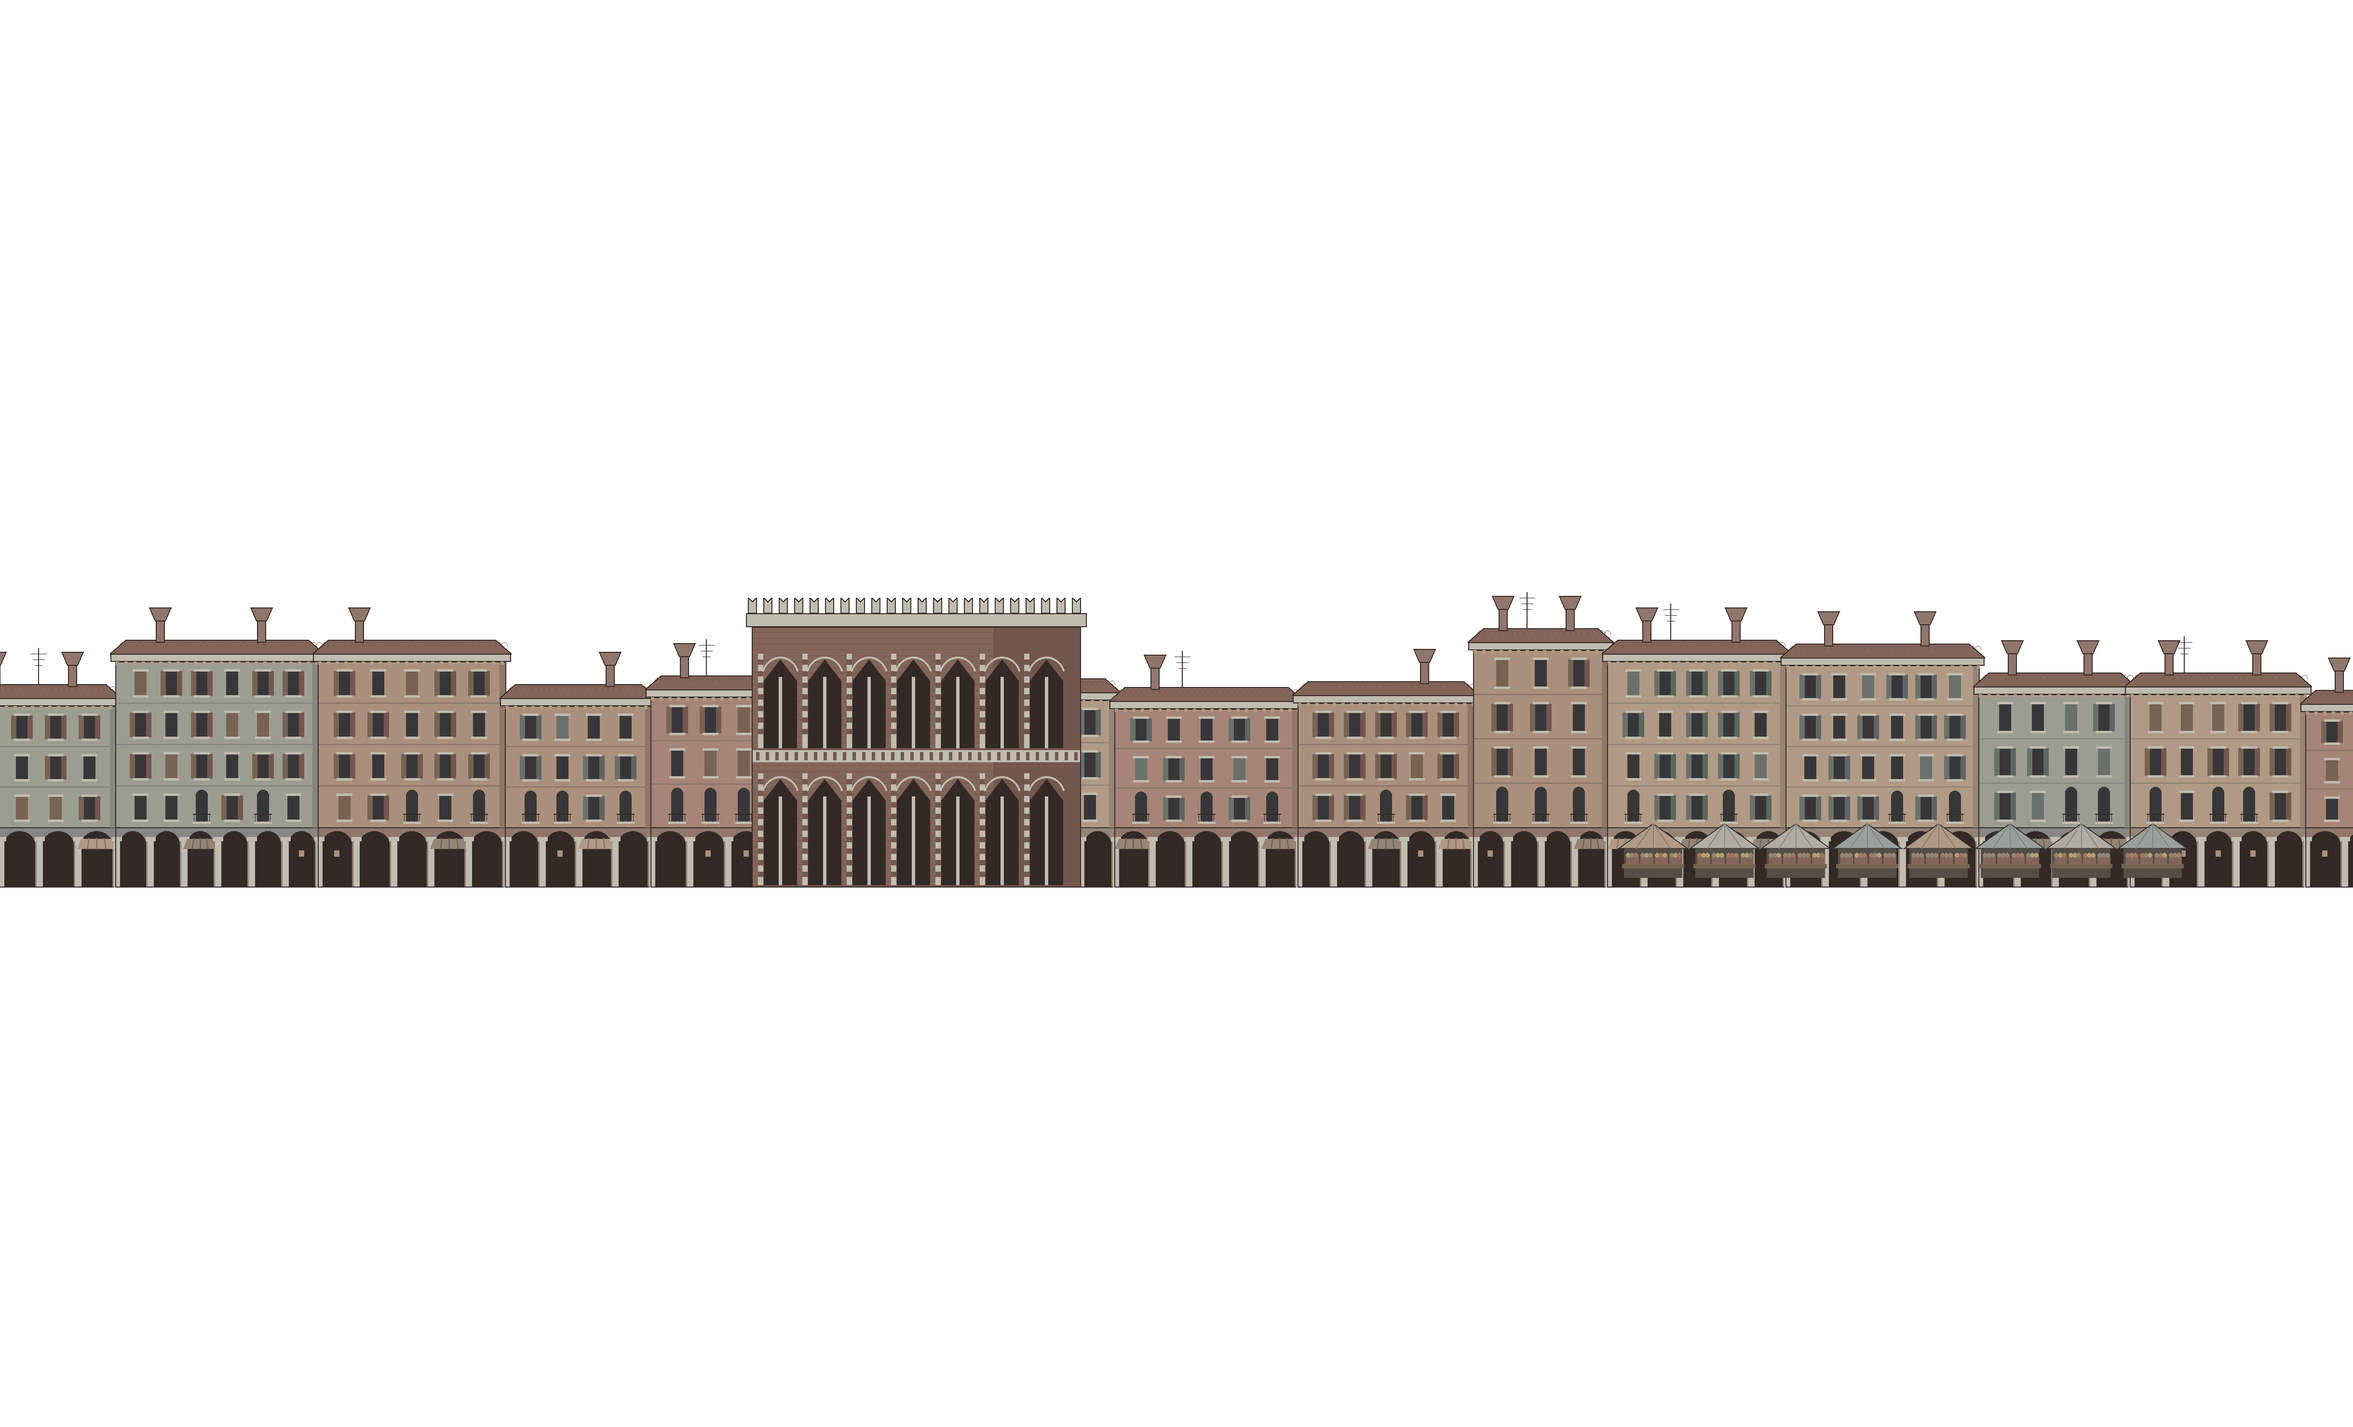
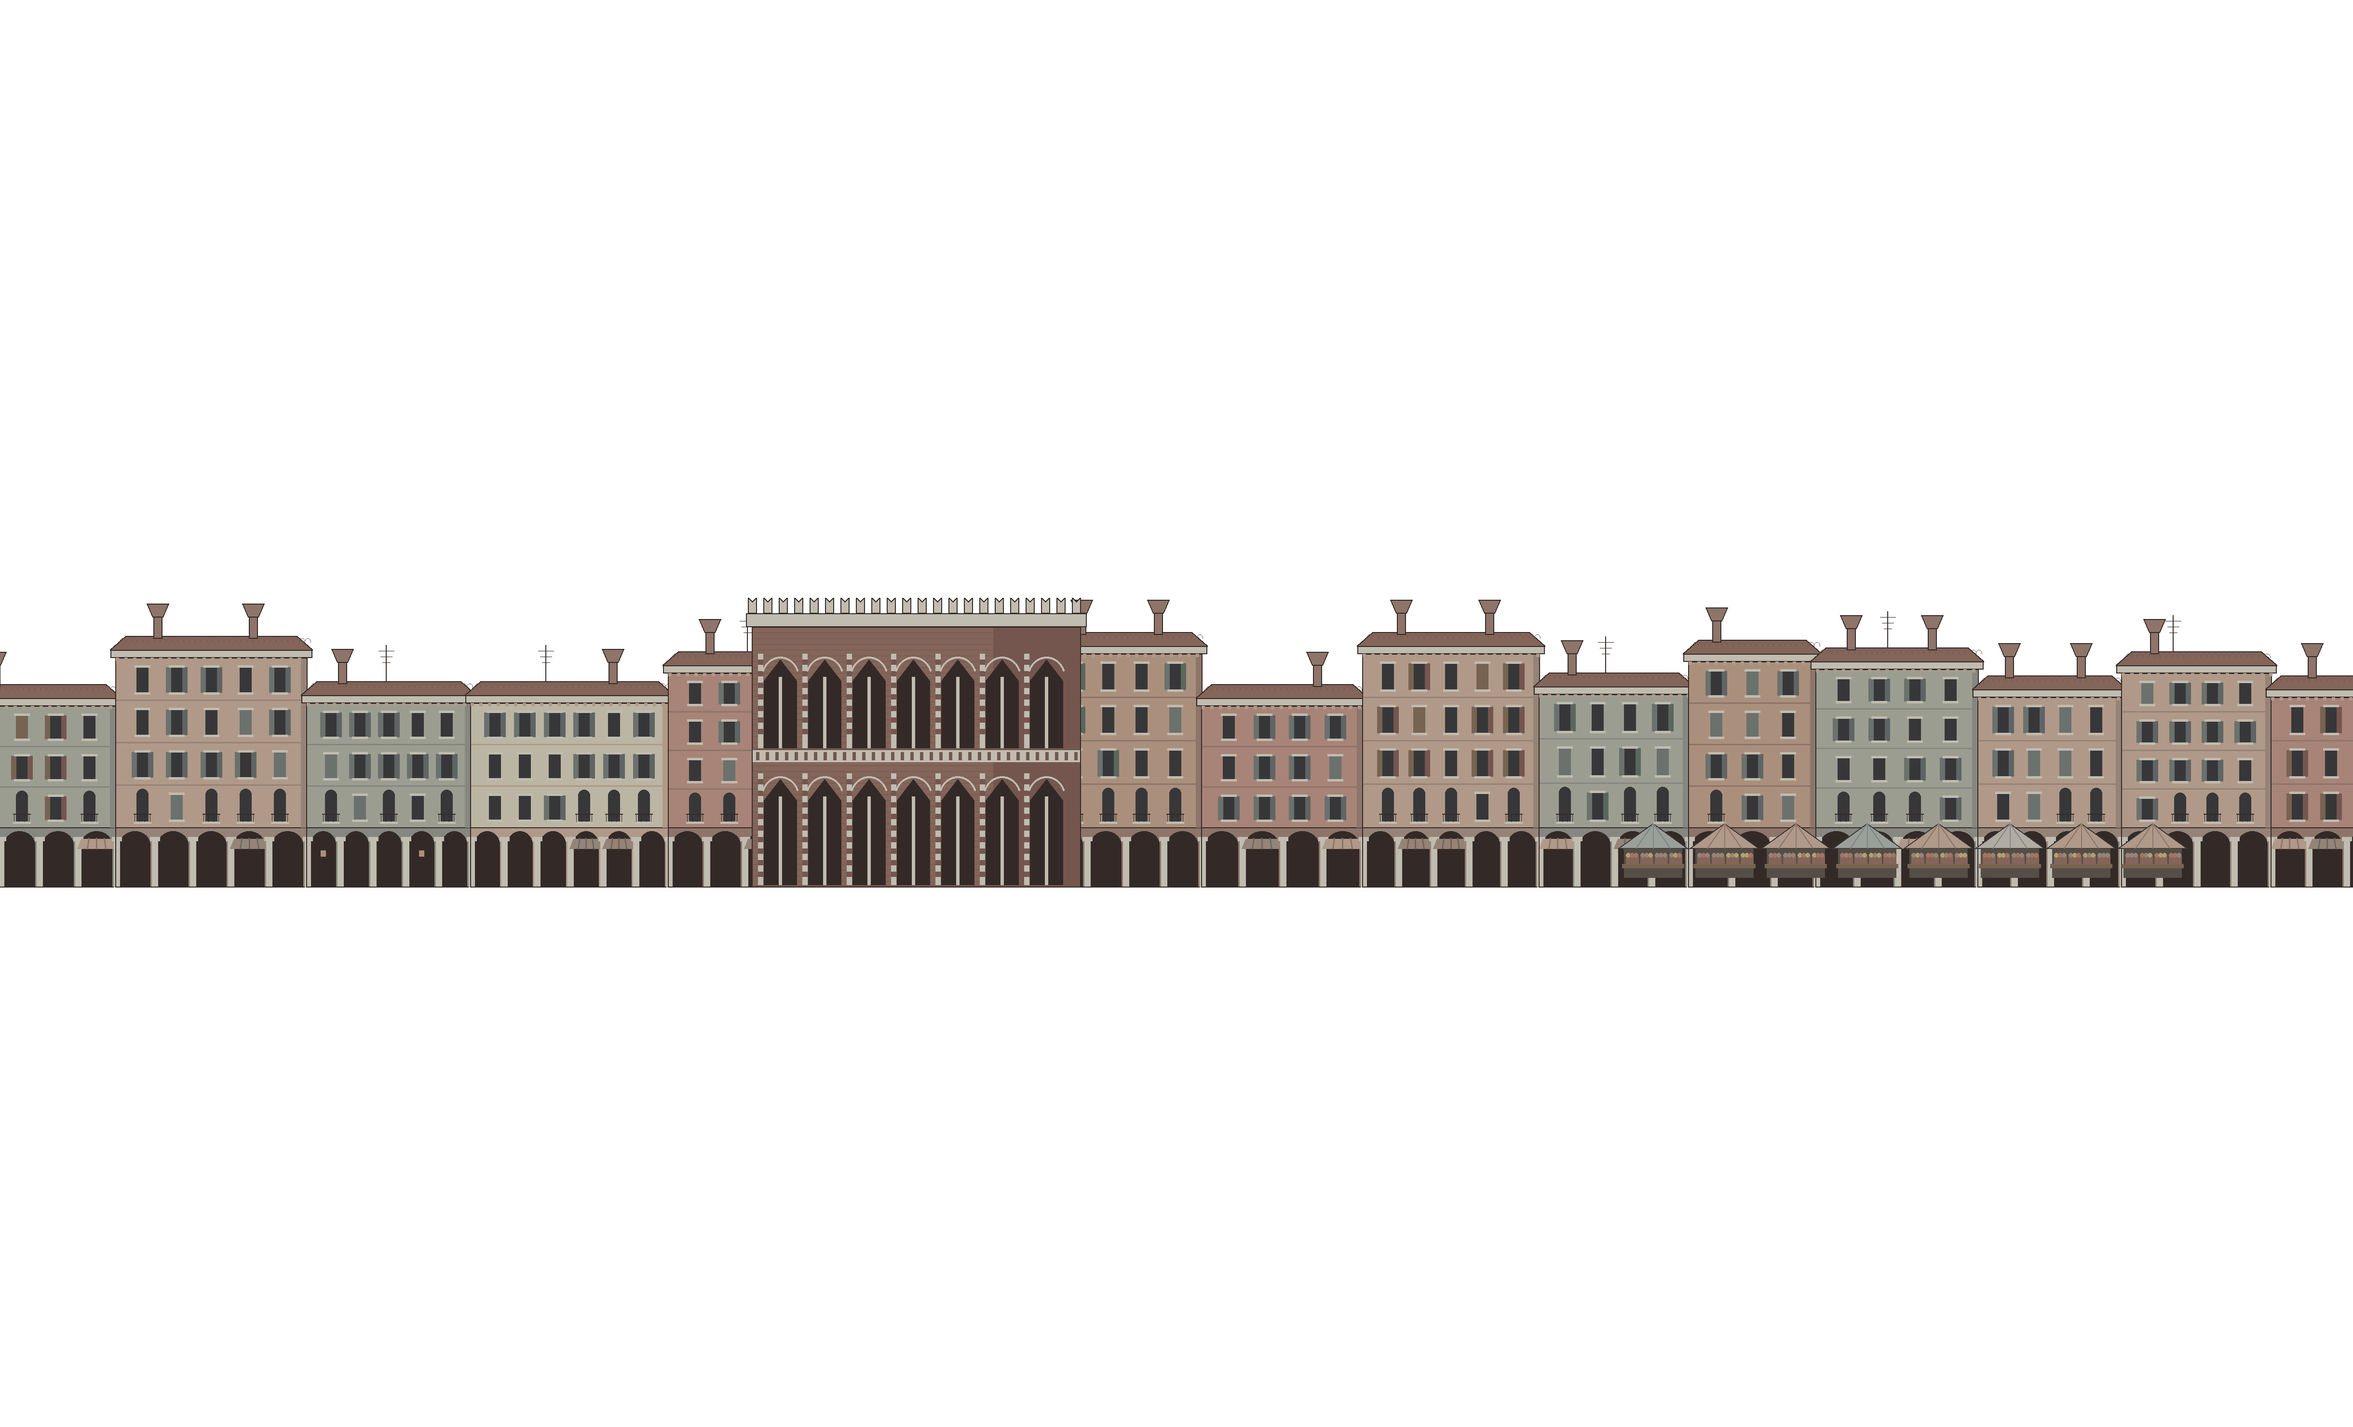
Accende di notte solo i vetri e i lampioni, al posto dei rettangoli (#288 passo 2)
Claude-Session: https://claude.ai/code/session_01Bf1d2rFJnp9n4pFf7DSqn4

Changed region(s): [[0.4361, 0.4041, 1.0, 0.6216], [0.0, 0.4041, 0.3426, 0.6216]]

diff --git a/src/shared/stages.ts b/src/shared/stages.ts
@@ -137,6 +137,10 @@ export interface StageLife {
     startAt?: number;
     lamps?: { x: number; y: number; parallax: number }[];
     windows?: { x: number; y: number; width: number; height: number }[]; // finestre che si accendono di notte, una alla volta
+    // Luci della notte precise (#288): immagini con solo i vetri accesi, sopra uno strato (stessa parallasse e misura)
+    // o sopra una decorazione (come i props). Si accendono al tramonto e si spengono all'alba
+    lightLayers?: { file: string; parallax: number }[];
+    lightProps?: { file: string; x: number; y: number; scale?: number }[];
     sky?: boolean; // cielo vivo (#267): gradiente, sole, luna, stelle e nuvole calcolati, dietro a uno strato del cielo trasparente
   };
 }
@@ -205,6 +209,7 @@ export function stageArtFiles(art: StageArt): string[] {
   for (const p of art.props ?? []) files.push(p.file);
   for (const h of art.hazardSprites ?? []) files.push(h.file);
   for (const m of art.moverSprites ?? []) files.push(m.file);
+  for (const l of [...(art.life?.daycycle?.lightLayers ?? []), ...(art.life?.daycycle?.lightProps ?? [])]) files.push(l.file);
   return [...new Set(files)];
 }
 
@@ -496,17 +501,9 @@ export const STAGES: Record<string, StageSpec> = {
           startAt: 0.8, // si parte poco dopo l'alba
           sky: true, // il cielo vivo dietro alle sagome di Santa Giustina e del Santo (#267)
           lamps: [90, 390, 690, 990, 1290, 1590, 1890, 2190].map((x) => ({ x: x - 260, y: 409, parallax: 0.75 })), // i lampioni del prato
-          // Le finestre del palazzo che si accendono la sera: la trifora, le bifore, l'ultimo piano, il mezzanino
-          windows: [
-            { x: 909, y: 220, width: 102, height: 72 },
-            { x: 803, y: 230, width: 54, height: 62 },
-            { x: 1063, y: 230, width: 54, height: 62 },
-            { x: 790, y: 130, width: 16, height: 38 },
-            { x: 990, y: 130, width: 16, height: 38 },
-            { x: 1120, y: 130, width: 16, height: 38 },
-            { x: 852, y: 342, width: 24, height: 20 },
-            { x: 1044, y: 342, width: 24, height: 20 },
-          ],
+          // Di notte i vetri accesi del palazzo, delle case e della città lontana, e le lanterne dei lampioni (#288)
+          lightLayers: [0, 1, 2].map((i) => ({ file: `sfondo-${i}-luci.png`, parallax: [0.15, 0.45, 0.75][i] })),
+          lightProps: [{ file: "palazzo-luci.png", x: 960, y: 480, scale: 0.5 }],
         },
       },
     },

diff --git a/tools/arene/padova.py b/tools/arene/padova.py
@@ -371,11 +371,33 @@ L_ORIGIN = (960 - LW / 2, 360 - LH / 2)
 HAZE = (176, 190, 202, 255)  # la foschia del giorno, verso cui sbiadiscono le cose lontane
 
 
-def layer(name, draw):
-    """Uno strato dello sfondo: draw(t) disegna sulla tela in pixel di mondo; il file esce a 2x (art.scale 0.5)."""
+LIT = (255, 206, 120, 255)  # luce calda di una finestra accesa
+LIT_CORE = (255, 236, 186, 255)  # il centro, più chiaro
+
+
+def lit_window(lt, pts):
+    """Un vetro acceso nell'immagine delle luci (#288): il colore caldo e, dentro, il centro più chiaro."""
+    if lt is None:
+        return
+    lt.poly(pts, fill=LIT)
+    cx = sum(p[0] for p in pts) / len(pts)
+    cy = sum(p[1] for p in pts) / len(pts)
+    lt.poly([(cx + (x - cx) * 0.55, cy + (y - cy) * 0.55) for x, y in pts], fill=LIT_CORE)
+
+
+def lit_rect(lt, x0, y0, x1, y1):
+    lit_window(lt, [(x0, y0), (x1, y0), (x1, y1), (x0, y1)])
+
+
+def layer(name, draw, lights=None):
+    """Uno strato dello sfondo: draw(t) disegna sulla tela in pixel di mondo; il file esce a 2x (art.scale 0.5).
+    Con lights, anche l'immagine delle luci della notte (#288): solo i vetri accesi, nello stesso posto."""
     t = Tela(LW, LH, origin=L_ORIGIN, ss=1)
+    t.lights = Tela(LW, LH, origin=L_ORIGIN, ss=1) if lights else None
     draw(t)
     t.save(OUT, name, colors=256)
+    if lights:
+        t.lights.save(OUT, lights, colors=64)
 
 
 def far(col, k):
@@ -423,6 +445,8 @@ def skyline(t, base, rng):
         t.poly([(x - 3, base - h), (x + w * 0.5, base - h - rng.randint(8, 16)), (x + w + 3, base - h)], fill=roof)
         for wx in range(int(x + 8), int(x + w - 8), 14):
             t.rect(wx, base - h + 8, wx + 4, base - h + 15, fill=far((70, 66, 64, 255), 0.6))
+            if t.lights is not None and rng.random() < 0.3:
+                t.lights.rect(wx, base - h + 8, wx + 4, base - h + 15, fill=(230, 190, 120, 255))
         if rng.random() < 0.15:  # un campanile
             tx = x + w * 0.5
             th = rng.randint(110, 160)
@@ -581,6 +605,9 @@ def portico_house(t, x, w, base, rng):
         elif rng.random() < 0.3:
             t.line([(ax + aw / 2, base - 44), (ax + aw / 2, base - 38)], fill=ink, width=0.6)
             t.rect(ax + aw / 2 - 2.5, base - 38, ax + aw / 2 + 2.5, base - 32, fill=(160, 146, 108, 255))
+            if t.lights is not None:  # la lanterna del portico accesa e il suo alone sotto l'arco
+                t.lights.ellipse(ax + 6, base - 46, ax + aw - 6, base - 6, fill=(150, 110, 60, 255))
+                lit_rect(t.lights, ax + aw / 2 - 2.5, base - 38, ax + aw / 2 + 2.5, base - 32)
     t.line([(x, base - 62), (x + w, base - 62)], fill=ink, width=1.0)
     # i piani
     win = rng.choice(SHUTTERS)
@@ -592,6 +619,8 @@ def portico_house(t, x, w, base, rng):
             wx = x + 10 + c * step + step / 2 - 6
             if f == 0 and rng.random() < 0.5:  # piano nobile: finestra ad arco con il balconcino in ferro
                 t.rect(wx, fy + 10, wx + 12, fy + fh - 6, fill=(54, 54, 56, 255))
+                if rng.random() < 0.45:
+                    lit_window(t.lights, [(wx, fy + fh - 6), (wx, fy + 10), (wx + 6, fy + 4), (wx + 12, fy + 10), (wx + 12, fy + fh - 6)])
                 t.pieslice(wx, fy + 4, wx + 12, fy + 16, 180, 360, fill=(54, 54, 56, 255))
                 t.rect(wx - 3, fy + fh - 6, wx + 15, fy + fh - 4, fill=stone)
                 for b in range(4):
@@ -599,6 +628,8 @@ def portico_house(t, x, w, base, rng):
                 t.line([(wx - 3, fy + fh - 14), (wx + 15, fy + fh - 14)], fill=ink, width=0.8)
             else:
                 t.rect(wx, fy + 10, wx + 12, fy + fh - 8, fill=(56, 56, 58, 255))
+                if rng.random() < 0.35:
+                    lit_rect(t.lights, wx + 1, fy + 11, wx + 11, fy + fh - 9)
                 if rng.random() < 0.7:  # persiane aperte, a volte una chiusa
                     if rng.random() < 0.2:
                         t.rect(wx, fy + 10, wx + 12, fy + fh - 8, fill=far(win, 0.15))
@@ -729,6 +760,7 @@ def lamp(t, x, base, h):
     for k in range(3):
         t.rect(x - 3.4, base - 24 - k * 26, x + 3.4, base - 21 - k * 26, fill=iron)
     t.poly([(x - 8, base - h), (x + 8, base - h), (x + 10, base - h - 18), (x - 10, base - h - 18)], fill=(176, 166, 128, 255), ink=True, width=0.9, ink_col=ink)
+    lit_window(getattr(t, "lights", None), [(x - 7, base - h - 1), (x + 7, base - h - 1), (x + 9, base - h - 17), (x - 9, base - h - 17)])
     t.line([(x, base - h), (x, base - h - 18)], fill=ink, width=0.7)
     t.poly([(x - 12, base - h - 18), (x + 12, base - h - 18), (x, base - h - 30)], fill=iron, ink=True, width=0.8, ink_col=ink)
     t.circle(x, base - h - 31, 2, fill=iron)
@@ -805,6 +837,7 @@ def palazzo(name):
     cornicione con le mensole, tetto di coppi e camini a imbuto. L'intonaco caldo ha qualche scrostatura che mostra
     i mattoni. I balconi veri sono piattaforme (y 300 e 180): qui ci sono solo le mensole sotto."""
     t = Tela(440, 440, origin=(740, 40))
+    lt = Tela(440, 440, origin=(740, 40))  # le luci della notte (#288): solo i vetri accesi, nello stesso posto
     rng = rand(21)
     plaster, plaster_s = (156, 122, 94, 255), (132, 102, 78, 255)
     stone, stone_s = (188, 182, 168, 255), (156, 148, 135, 255)  # un po' più spenta dei balconi, che si calpestano
@@ -862,6 +895,11 @@ def palazzo(name):
         wx = 786 + i * 64
         t.rect(wx - 3, 337, wx + 31, 367, fill=stone, ink=True, width=0.9)
         t.rect(wx, 340, wx + 28, 364, fill=glass)
+        if i in (1, 4):  # due finestre del mezzanino accese, con le sbarre davanti alla luce
+            lit_rect(lt, wx, 340, wx + 28, 364)
+            for b in range(1, 4):
+                lt.line([(wx + b * 7, 340), (wx + b * 7, 364)], fill=(30, 28, 26, 255), width=0.9)
+            lt.line([(wx, 352), (wx + 28, 352)], fill=(30, 28, 26, 255), width=0.9)
         for b in range(1, 4):
             t.line([(wx + b * 7, 340), (wx + b * 7, 364)], fill=(30, 28, 26, 255), width=0.9)
         t.line([(wx, 352), (wx + 28, 352)], fill=(30, 28, 26, 255), width=0.9)
@@ -876,7 +914,7 @@ def palazzo(name):
         t.poly([(mx, 314), (mx + 14, 314), (mx + 14, 318), (mx + 10, 330), (mx + 4, 330), (mx, 318)], fill=stone, ink=True, width=0.9)
         t.poly([(mx + 9, 316), (mx + 14, 316), (mx + 10, 330), (mx + 8, 328)], fill=stone_s)
 
-    def gothic(wx, wy, ww, wh, lights):
+    def gothic(wx, wy, ww, wh, lights, lit=True):
         # cornice di pietra con il cappello a punta, luci a sesto acuto con le colonnine, quadrilobo in cima
         frame = [(wx - 7, wy + wh), (wx - 7, wy + 6), (wx + ww / 2, wy - 16), (wx + ww + 7, wy + 6), (wx + ww + 7, wy + wh)]
         t.poly(frame, fill=stone, ink=True, width=1.1)
@@ -886,6 +924,8 @@ def palazzo(name):
             lx = wx + j * lw_
             pts = [(lx + 3, wy + wh - 3), (lx + 3, wy + 18), (lx + lw_ / 2, wy + 4), (lx + lw_ - 3, wy + 18), (lx + lw_ - 3, wy + wh - 3)]
             t.poly(pts, fill=glass, ink=True, width=0.9)
+            if lit:
+                lit_window(lt, pts)
             t.poly([(lx + lw_ * 0.55, wy + 14), (lx + lw_ - 4, wy + 22), (lx + lw_ - 4, wy + 30), (lx + lw_ * 0.55, wy + 24)], fill=(76, 82, 86, 255))  # riflesso
             if j:
                 t.rect(lx - 1.6, wy + 16, lx + 1.6, wy + wh - 3, fill=stone, ink=True, width=0.7)  # colonnina
@@ -897,7 +937,7 @@ def palazzo(name):
         t.rect(wx - 9, wy + wh - 2, wx + ww + 9, wy + wh + 3, fill=stone, ink=True, width=0.9)  # davanzale
     gothic(905, 212, 110, 84, 3)
     gothic(800, 222, 60, 74, 2)
-    gothic(1060, 222, 60, 74, 2)
+    gothic(1060, 222, 60, 74, 2, lit=False)
     t.rect(756, 196, 1164, 204, fill=stone)
     t.rect(756, 201, 1164, 204, fill=stone_s)
     t.rect(756, 196, 1164, 204, ink=True, width=1.0)
@@ -911,6 +951,10 @@ def palazzo(name):
         t.rect(wx - 4, 124, wx + 20, 128, fill=stone, ink=True, width=0.8)  # cappello
         t.rect(wx - 2, 128, wx + 18, 172, fill=stone, ink=True, width=0.8)
         t.rect(wx, 130, wx + 16, 170, fill=glass)
+        if wx in (790, 990, 1120):
+            lit_rect(lt, wx, 130, wx + 16, 170)
+            lt.line([(wx + 8, 130), (wx + 8, 170)], fill=(120, 90, 50, 255), width=0.8)  # l'infisso
+            lt.line([(wx, 146), (wx + 16, 146)], fill=(120, 90, 50, 255), width=0.8)
         t.line([(wx + 8, 130), (wx + 8, 170)], fill=stone_s, width=0.8)
         t.line([(wx, 146), (wx + 16, 146)], fill=stone_s, width=0.8)
         for sx in (wx - 10, wx + 18):  # persiane a stecche
@@ -961,6 +1005,7 @@ def palazzo(name):
     # contorno del palazzo
     t.rect(760, 110, 1160, 480, ink=True, width=1.4)
     t.save(OUT, name)
+    lt.save(OUT, name.replace(".png", "-luci.png"))
 
 
 def balcony_rail():
@@ -1226,6 +1271,6 @@ if __name__ == "__main__":
     plane_tree_prop("platano.png")
     balcony_rail()
     balcony_floor()
-    layer("sfondo-0.png", sky)
-    layer("sfondo-1.png", buildings)
-    layer("sfondo-2.png", lawn)
+    layer("sfondo-0.png", sky, "sfondo-0-luci.png")
+    layer("sfondo-1.png", buildings, "sfondo-1-luci.png")
+    layer("sfondo-2.png", lawn, "sfondo-2-luci.png")

diff --git a/docs/arene.md b/docs/arene.md
@@ -285,6 +285,8 @@ Facoltativo, solo grafica: elementi animati che fanno sembrare il posto abitato.
 | `flyers: { y, parallax, count }` | `count` uccelli vicini da `y` in giù (#278): rondini che sfrecciano di giorno, pipistrelli di notte (servono `daycycle`) |
 | `planes: { y, everyMs }` | un aereo lontanissimo che attraversa il cielo in 40 s ogni `everyMs` (più di 40000): la scia di giorno, le luci che lampeggiano di notte |
 | `bar: { x, y, parallax, tables, spacing }` | i tavolini di un bar (#278), da `x` verso destra ogni `spacing`: due persone per tavolino che bevono lo spritz e ogni tanto brindano, gli ombrelloni, il cameriere col vassoio e di sera le lucine |
+| `daycycle.lightLayers: [{ file, parallax }]`, `daycycle.lightProps: [{ file, x, y, scale? }]` | luci della notte precise (#288): immagini con solo i vetri accesi, grandi e messe come lo strato (stessa `parallax`) o come la decorazione che illuminano. Si accendono al tramonto, senza la luce ambiente. Padova le genera insieme ai disegni (`*-luci.png`). I lampioni (`lamps`) si disegnano subito dopo il loro strato: alone, cono di luce e pozza a terra |
+| Luce del sole e della luna (#288) | nelle arene con `daycycle`, ombre a terra di lottatori e decorazioni, lunghe al tramonto, dalla parte opposta all'astro, e una luce calda (fredda di notte) dal suo lato (`godot/scripts/sun_light.gd`) |
 | `rain: { periodMs, rainMs, offsetMs? }` | pioggia solo grafica (#288): ogni `periodMs` piove per `rainMs`, senza trappole; i passanti aprono l'ombrello |
 | `outerWater: { y, highY?, flood? }` | acqua intorno all'arena, da `y` in giù, disegnata davanti a chi cade, con lo splash. Con `flood` (indice di una trappola con l'acqua alta) sale fino a `highY` insieme a lei. Le rive possono scendere fino all'acqua: l'arena non sembra sospesa nel vuoto |
 | `daycycle: { cycleMs, startAt?, lamps? }` | giorno e notte: un giro intero in `cycleMs` dall'inizio della partita, partendo da `startAt` (0 mezzogiorno, 0,25 tramonto, 0,5 mezzanotte, 0,75 alba). Di notte si vedono le stelle; i lampioni `{ x, y, parallax }` si accendono al tramonto e si spengono all'alba, le finestre `windows: [{ x, y, width, height }]` si accendono una alla volta. Con `sky: true` il cielo è vivo (#267): gradiente con i colori del momento (alba rosa, giorno azzurro, tramonto arancio e viola, notte blu), sole e luna che tramontano dietro gli strati, stelle e nuvole che scorrono; lo strato più lontano allora va disegnato con il cielo trasparente, solo le sagome. La luce del momento moltiplica strati, decorazioni, acqua e sfondo vivo, il palco solo un po' |
